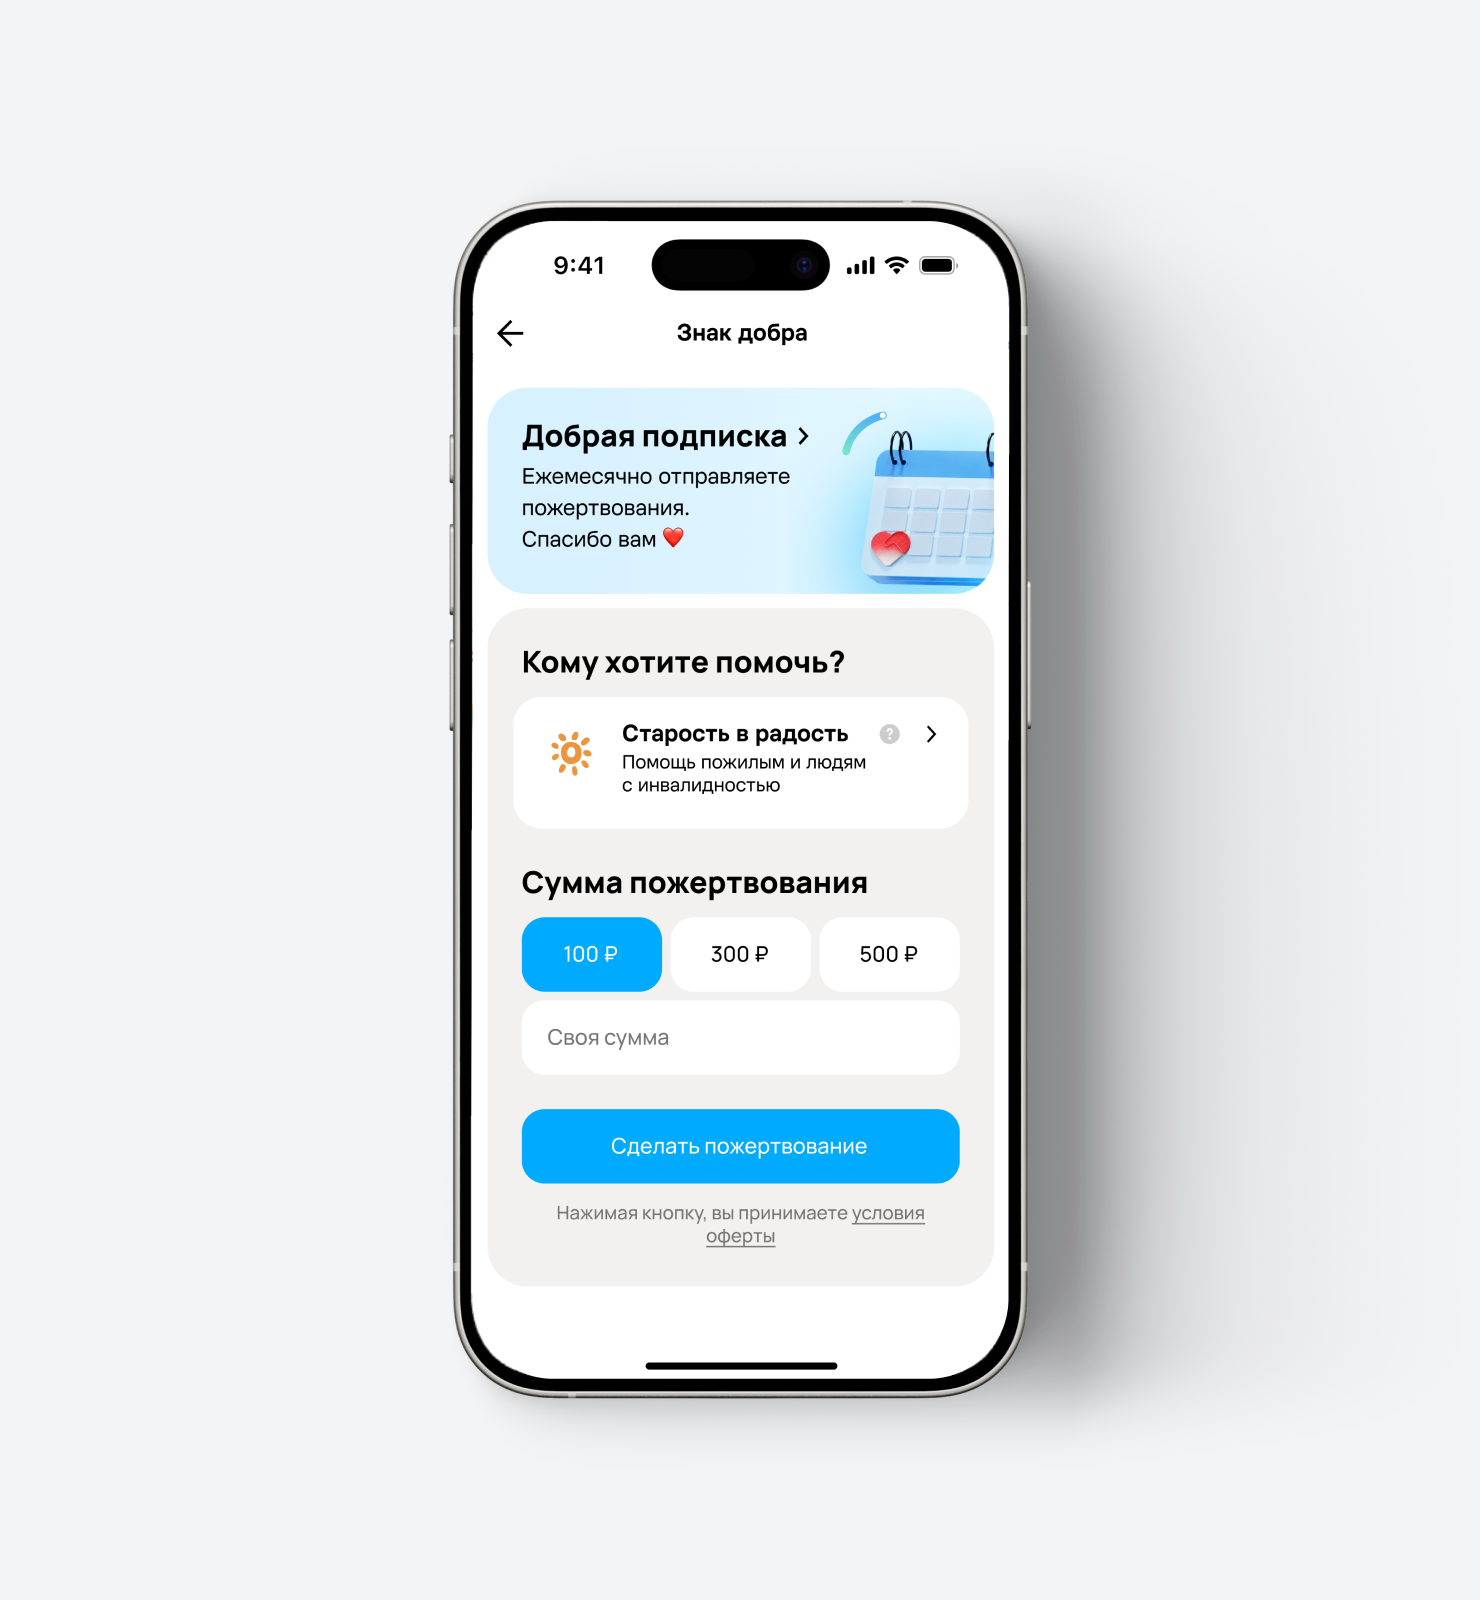
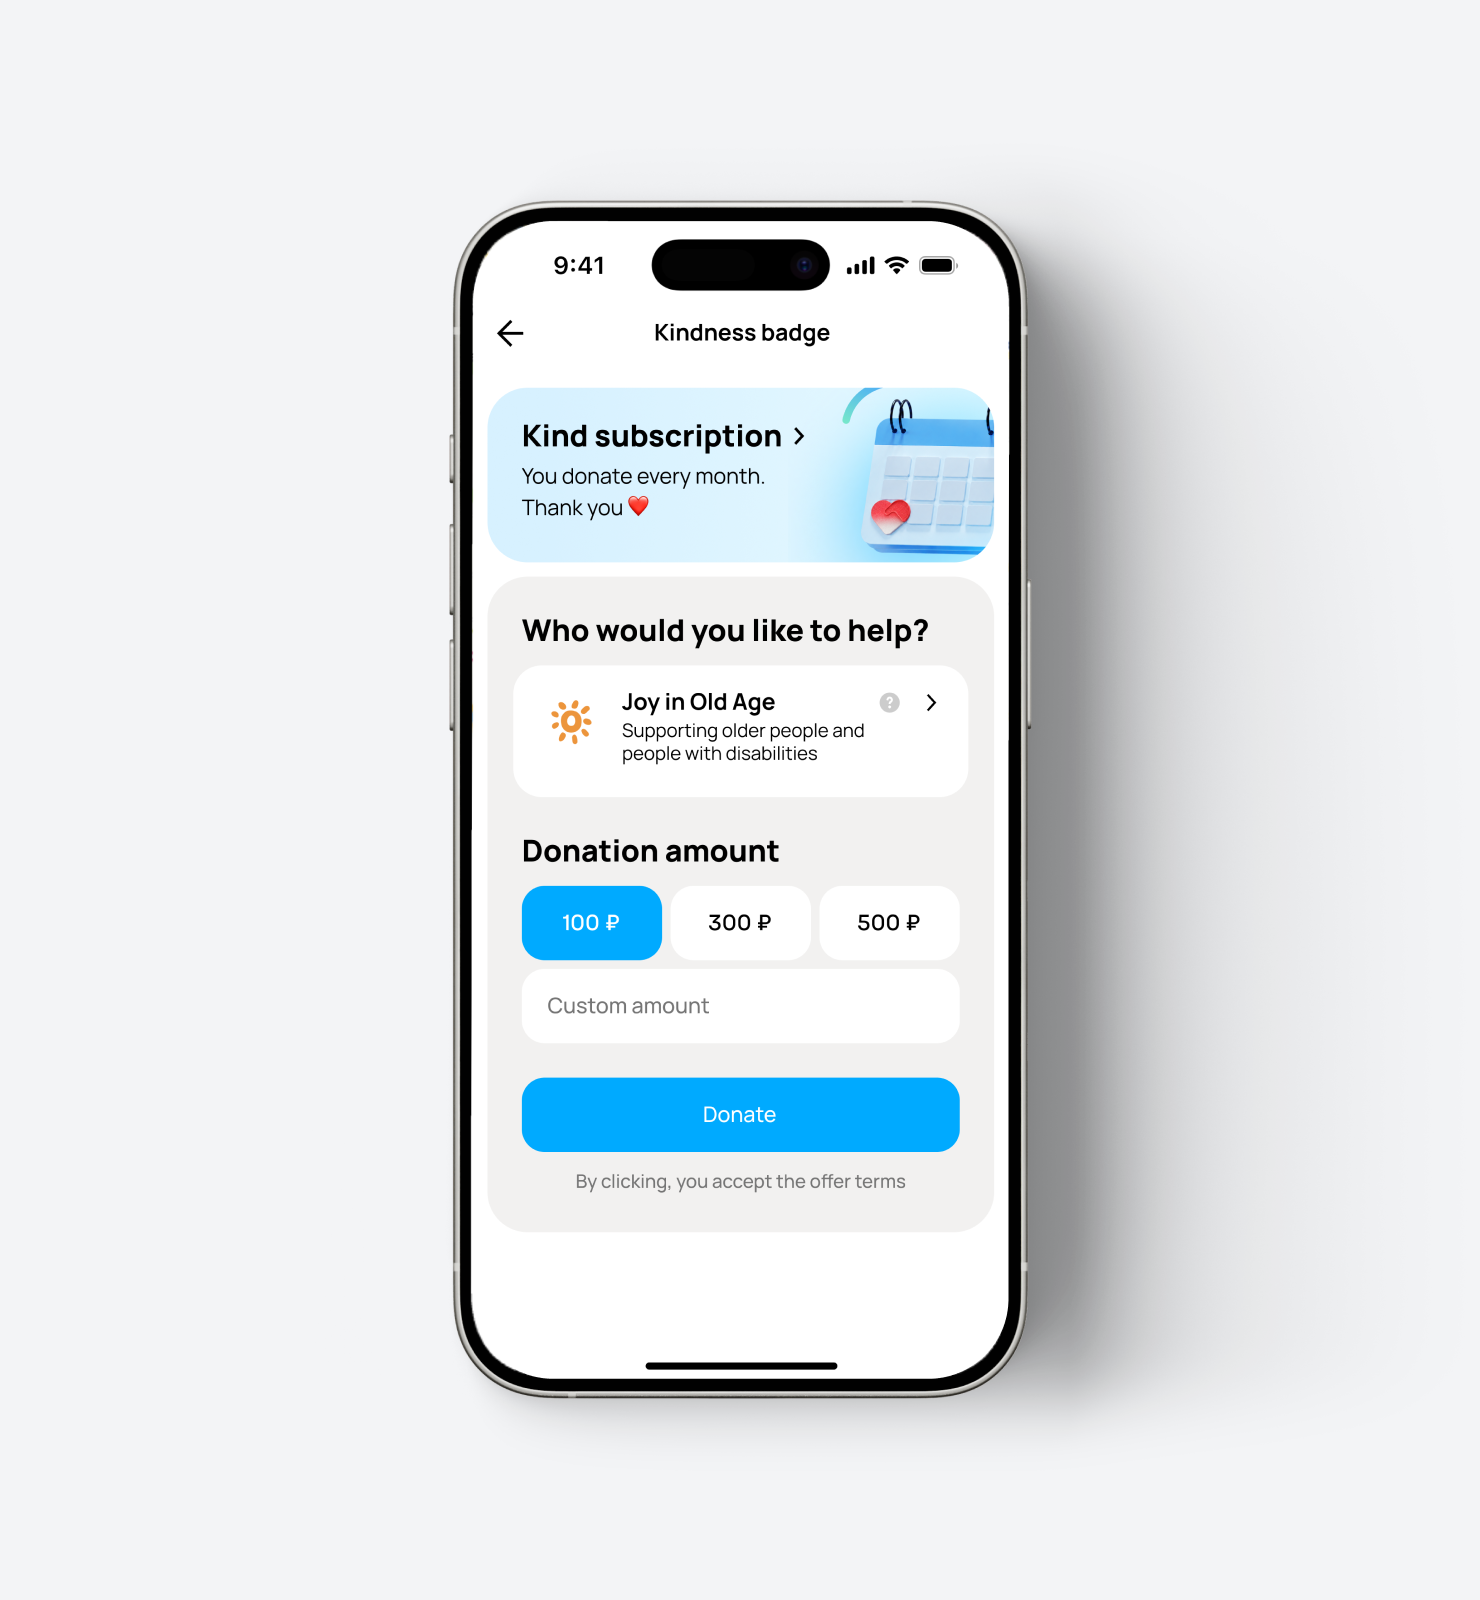
Refresh English management screens and crop charity selection preview

diff --git a/projects/avito-charity/subscription/index.html b/projects/avito-charity/subscription/index.html
@@ -99,7 +99,7 @@ body {
   text-wrap: balance;
 }
 
-/* Only the first two previews: keep the complete phone screens while
+/* Paired-screen previews: keep the complete phone screens while
    removing side space on phones and tablets. Full-screen media stays intact. */
 @media (max-width: 1199px) {
   .subscription-screen-crop > img {
@@ -231,7 +231,7 @@ body {
 
 <section class="case-block cg" id="choose-fund" tabindex="-1">
  <div class="cg-intro"><h2 class="text-h1">Выбор фонда</h2><div class="cg-intro__text"><p class="text-body-lg" data-subtitle>Перенесла выбор фонда на первый экран: до выбора суммы можно узнать о фонде, сменить его и открыть отчёты «Добрые дела фонда»</p></div></div>
- <div class="case-cover__media case-cover__media--natural cg-bleed"><img src="media/choose-fund/fund-selection-2880x1600.webp" width="2880" height="1600" alt="Выбор фонда для подписки и разового пожертвования" loading="lazy" /></div><p class="text-body-lg cg-r">В разовом пожертвовании подставляем фонды из случайных категорий, чтобы помощь получали и менее популярные направления, помимо детей и животных.</p>
+ <div class="case-cover__media case-cover__media--natural cg-bleed subscription-screen-crop"><img src="media/choose-fund/fund-selection-2880x1600.webp" width="2880" height="1600" alt="Выбор фонда для подписки и разового пожертвования" loading="lazy" /></div><p class="text-body-lg cg-r">В разовом пожертвовании подставляем фонды из случайных категорий, чтобы помощь получали и менее популярные направления, помимо детей и животных.</p>
 </section>
 
 <section class="case-block cg" id="settings" tabindex="-1">

diff --git a/docs/subscription-media.md b/docs/subscription-media.md
@@ -66,7 +66,7 @@ remux совпадают, как и длительность, разрешени
 возобновление превью и повторное открытие. Рендер браузера эта проверка
 не заменяет.
 
-Первые два превью на ширинах до 1199 px показываются с симметричной
+Превью 1, 2 и 10 («Выбор фонда») на ширинах до 1199 px показываются с симметричной
 обрезкой боковых полей: увеличение в 1,5 раза на планшетах и в 1,8 раза
 до 699 px. Полная высота и оба экрана сохраняются. От 1200 px и в
 полноэкранной галерее остаётся полный кадр. Правило общее для RU и EN.
@@ -75,3 +75,11 @@ remux совпадают, как и длительность, разрешени
 локальный импортёр автоматически подготовил WebP без потерь, после чего
 готовый файл перенесён в `media/concepts/2-en.webp`. Размер 1600 × 2000
 сохранён, русская картинка 6 не менялась.
+
+Английский кадр 15 обновлён из нового `en 15.png` в корне проекта:
+готовый lossless WebP перенесён в `media/manage/manage-2-v2-1480x1600-en.webp`,
+размер 1480 × 1600 и русская версия сохранены.
+
+Английский кадр 16 обновлён из нового `en 16.png` в корне проекта:
+готовый lossless WebP перенесён в `media/manage/manage-1-v2-1480x1600-en.webp`,
+размер 1480 × 1600 и русская версия сохранены.
